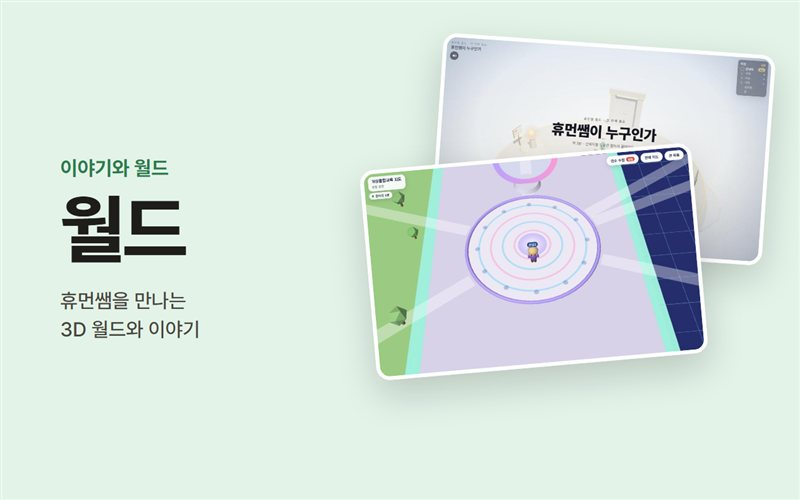
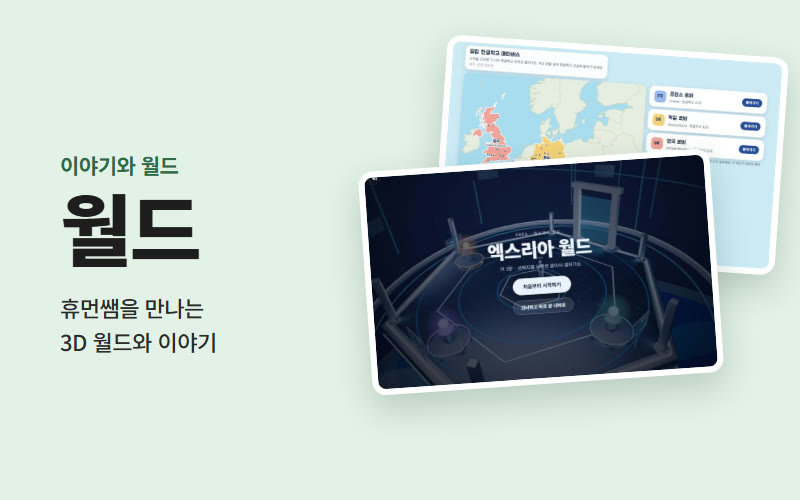
월드: '휴먼쌤이 누구인가' 내림 — 카드 plaza·vr1 뺌, 월드·XR실험실 표지 다시, data.js?v=20261031d (휴먼쌤 10-31 내려줘)

diff --git a/data.js b/data.js
@@ -158,27 +158,13 @@ window.SITE = {
     },
 
     world: {
-      title: '월드', sub: '이야기와 월드', color: 'world', thumb: 'assets/thumbs/home-world.jpg',
+      title: '월드', sub: '이야기와 월드', color: 'world', thumb: 'assets/thumbs/home-world.jpg?v=20261031d',
       lead: '휴먼쌤의 세계관을 보여 주는 이야기와 3D 월드',
       card: '이야기와 월드 · 휴먼쌤을 만나는 3D 월드',
       hint: '카드를 누르면 소개와 화면이 나오고, 맨 위 \'바로 들어가기\'를 누르면 월드가 열려요. 휴대폰·PC에서 열려요.',
       story: { name: '리니야, 학교가자', status: '준비 중', one: '로봇 리니가 학교에서 휴먼쌤을 만나는 이야기. 인스타툰으로 먼저 만나요.' },
       items: [
-    {
-        "slug":  "plaza",
-        "name":  "휴먼티처월드 · 광장",
-        "status":  "열림",
-        "one":  "휴먼쌤을 이야기로 만나고 광장에서 섬으로 떠나요",
-        "url":  "https://humanssaem-world.pages.dev/",
-        "label":  "휴먼티처월드 들어가기",
-        "note":  "휴대폰·PC 브라우저에서 열려요. 휴대폰은 화면 조이스틱으로, PC는 키보드로 걸어요.",
-        "intro":  [
-                      "휴먼쌤이 어떤 선생님인지 이야기로 만나는 첫 월드예요. 3분쯤 선택지를 고르며 휴먼쌤의 어제·오늘·내일을 따라가요. 이야기가 끝나면 로봇 리니를 따라 광장으로 나가 직접 걸어 다니고, 섬 출발점에서 가상융합교육 섬·AI타운·프랑스 한글학교 섬으로 떠날 수 있어요. 두 번째 방문부터는 \u0027광장으로 바로 가기\u0027로 곧장 들어가요."
-                  ],
-        "thumb":  "assets/thumbs/world-plaza.jpg",
-        "shot":  "",
-        "shotAlt":  "휴먼쌤이 누구인가 — 첫 화면"
-    },
+    /* 2026-10-31 휴먼쌤 "지금의 '휴먼쌤이 누구인가'는 일단 휴먼티처닷컴에서 내려줘" → 카드 '휴먼티처월드 · 광장'(plaza, 월드 1 입구)과 XR실험실의 '월드 1 VR'(vr1)을 뺌. 월드 자체(humanssaem-world.pages.dev)는 그대로. 프로필을 다시 만든 뒤 새 카드로 올린다 */
     {
         "slug":  "xr",
         "name":  "가상융합교육 캠퍼스",
@@ -249,7 +235,7 @@ window.SITE = {
         "label":  "엑스리아 월드 들어가기",
         "note":  "휴대폰·PC 브라우저에서 열려요. 약 3분 걸려요.",
         "intro":  [
-                      "(사)한국가상융합교육협회, 엑스리아(XREA)를 소개하는 3D 월드예요. 첫 월드 '휴먼쌤이 누구인가'와 같은 꼴로, 안내 로봇을 따라 선택지를 고르며 교실에서 시작한 작은 연구회가 어떻게 협회가 됐는지 어제·오늘·내일 세 조각을 모아요.",
+                      "(사)한국가상융합교육협회, 엑스리아(XREA)를 소개하는 3D 월드예요. 안내 로봇을 따라 선택지를 고르며 교실에서 시작한 작은 연구회가 어떻게 협회가 됐는지 어제·오늘·내일 세 조각을 모아요.",
                       "세 조각이 모이면 문이 열려요. 문을 지나 밖으로 나가면 '누구의 월드로 들어갈까요?'에서 다음 월드를 골라 이어서 갈 수 있어요. 안내하는 인물은 모두 휴머노이드 로봇이에요."
                   ],
         "thumb":  "assets/thumbs/world-xrea.jpg",
@@ -257,28 +243,12 @@ window.SITE = {
         "shotAlt":  "엑스리아 월드 — 시작 화면"
     },
     { "slug": "xr-lab", "name": "휴먼쌤 XR실험실", "status": "열림",
-      "one": "VR·3D로 만든 월드 셋을 한곳에",
+      "one": "VR·3D로 만든 월드 둘을 한곳에",
       "url": "", "label": null,
-      "note": "셋 모두 휴대폰·PC에서 열려요. 월드 1 VR과 융합 광장은 VR 기기에서 안으로 들어갈 수 있고, 로봇 학교 교실은 PC 브라우저나 Delightex Edu 앱에서 열려요.",
-      "intro": ["휴먼쌤이 VR과 3D로 만든 월드를 모은 실험실이에요. 첫 월드 '휴먼쌤이 누구인가'를 VR로 옮긴 판, 학교 교정과 가상 구역이 만나는 융합 광장, 로봇 리니가 휴먼쌤에게 수업을 받는 로봇 학교 교실이 들어 있어요."],
-      "thumb": "assets/thumbs/world-xr-lab.jpg", "shot": "",
-      "children": ["vr1", "fusion-plaza", "robot-classroom"] },
-    {
-        "slug":  "vr1",
-        "parent":  "xr-lab",
-        "name":  "월드 1 VR — 휴먼쌤이 누구인가",
-        "status":  "열림",
-        "one":  "휴먼쌤의 이야기를 VR로 따라가요",
-        "url":  "https://humanssaem-world.pages.dev/vr/",
-        "label":  "월드 1 VR 들어가기",
-        "note":  "메타 퀘스트 3 브라우저에서 VR로 들어가고, 휴대폰·PC에서는 화면으로 볼 수 있어요.",
-        "intro":  [
-                      "첫 월드 \u0027휴먼쌤이 누구인가\u0027를 VR로 옮긴 판이에요. 3분쯤 휴먼쌤의 이야기를 따라가며 선택지를 골라요. 헤드셋에서는 손에서 나가는 빛줄기로 가리키고 방아쇠를 당겨 골라요."
-                  ],
-        "thumb":  "assets/thumbs/world-vr1.jpg",
-        "shot":  "",
-        "shotAlt":  "월드 1 VR — 안내자와 첫 만남"
-    },
+      "note": "둘 다 휴대폰·PC에서 열려요. 융합 광장은 VR 기기에서 안으로 들어갈 수 있고, 로봇 학교 교실은 PC 브라우저나 Delightex Edu 앱에서 열려요.",
+      "intro": ["휴먼쌤이 VR과 3D로 만든 월드를 모은 실험실이에요. 학교 교정과 가상 구역이 만나는 융합 광장, 로봇 리니가 휴먼쌤에게 수업을 받는 로봇 학교 교실이 들어 있어요."],
+      "thumb": "assets/thumbs/world-xr-lab.jpg?v=20261031d", "shot": "",
+      "children": ["fusion-plaza", "robot-classroom"] },
     { "slug": "korean-maps", "name": "한국어 학습맵 5종", "status": "열림",
       "one": "하나와 함께 다섯 곳을 다니며 배우는 초급 한국어",
       "intro": ["프랑스 한글학교 초급 학습자를 위한 3D 학습맵이에요. 집주인·점원·역무원·약사로 나오는 하나와 함께 장소를 다니며, 그 자리에서 쓰는 말과 낱말 10개씩을 배워요. 한 곳에 8~12분쯤 걸려요.", "휴대폰·PC 브라우저에서 바로 열리고, 안드로이드 휴대폰·퀘스트 3에서는 내 방에 띄워 볼 수 있어요. 학습맵마다 학생용 활동지(A4 1쪽)가 있어요."],
@@ -468,14 +438,12 @@ window.SITE.tags = {
   'mini-apps': ['앱 다섯', '설치 없음', '휴대폰·PC'],
   'grandma-visit': ['한글학교', '4단계', '초급·중급·고급', '짝 활동', '프랑스어 뜻'],
   'seoul-trip': ['한글학교', '갈림길 넷', '초급·중급·고급', '반 전체 투표', '여행기 쓰기'],
-  'plaza': ['약 3분 이야기', '광장 걷기', '섬 셋으로 출발'],
   'xr': ['교사 연수', '관 여섯 곳', '수료증'],
   'ai': ['여섯 구역', '도장 모으기', '명예 주민증'],
   'hangul-france': ['한글학교 17곳', '교실 둘러보기', '함께 접속', '말풍선 인사'],
   'hangul-europe': ['세 나라 70곳', '유럽 지도에서 고르기', '함께 접속', '말풍선 인사'],
   'xrea': ['약 3분', '로봇 안내', '어제·오늘·내일 세 조각', '문 너머 월드 고르기'],
-  'xr-lab': ['월드 셋', 'VR·3D', '휴대폰·PC·VR'],
-  'vr1': ['약 3분', 'VR', '메타 퀘스트 3'],
+  'xr-lab': ['월드 둘', 'VR·3D', '휴대폰·PC·VR'],
   'korean-maps': ['한국어 초급', '학습맵 5곳', '낱말 10개씩', '8~12분', 'VR·AR', '활동지 PDF'],
   'hanok': ['한국어 처음', '낱말 10개', '약 8분', 'VR·AR', '활동지 PDF'],
   'store': ['한국어 초급', '낱말 10개', '약 10분', 'VR·AR', '활동지 PDF'],

diff --git a/index.html b/index.html
@@ -203,7 +203,7 @@ button.enter{width:100%;border:0;font-weight:400;cursor:pointer}
 </div>
 
 <!-- data.js를 고치면 아래 v= 숫자를 올린다(브라우저·CDN이 옛 내용을 기억하지 않게) -->
-<script src="data.js?v=20261031c"></script>
+<script src="data.js?v=20261031d"></script>
 <script>
 (function(){
   var S = window.SITE, main = document.getElementById('main'), ORDER = ['cloud','app','world'];
